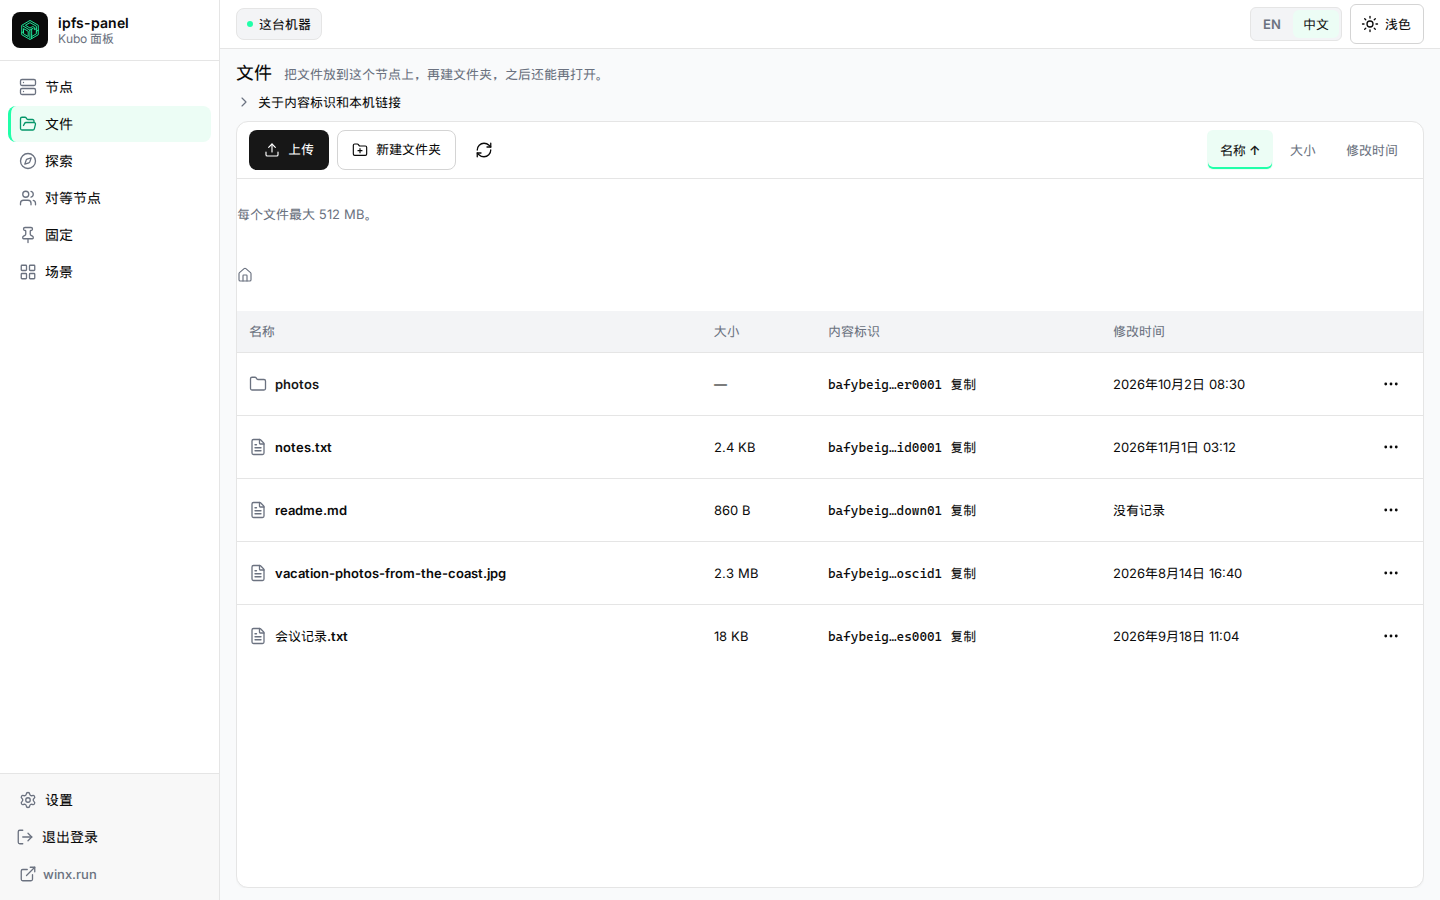
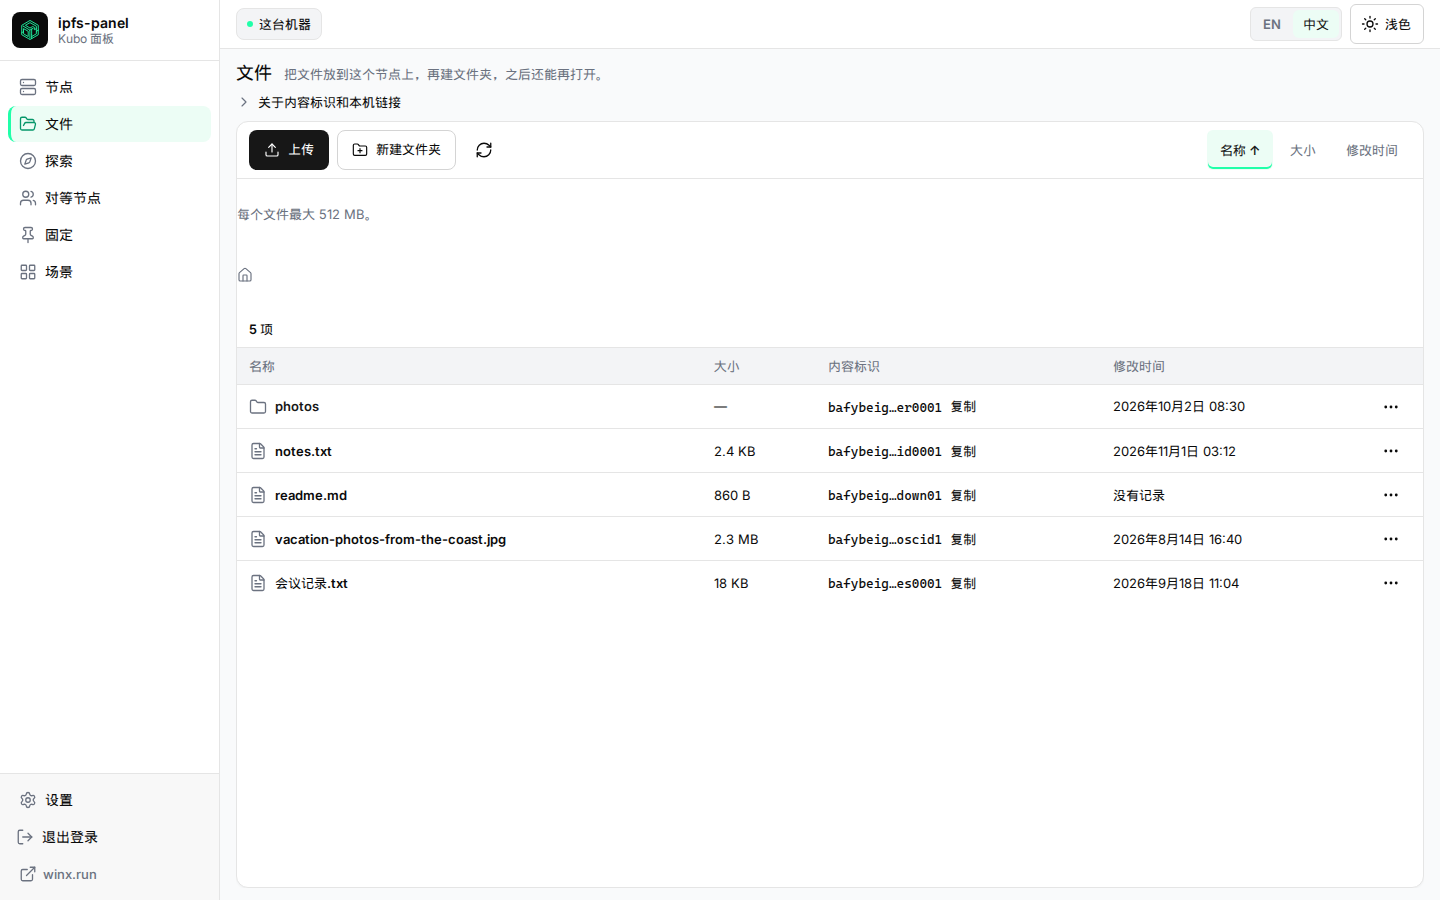
fix: finish the ops-panel density pass
Table cells, including the first column, use the toolbar's 12px inset and a 44px row. Node property hints no longer add a second line, and the pins and peers sections end after the last row. Peer ids ellipsize, with the copy control keeping the full id. Files and pins show a count above the list. The raw pin type code is no longer a second line under the label.

diff --git a/apps/web/src/styles/peers.css b/apps/web/src/styles/peers.css
@@ -75,8 +75,12 @@
 }
 
 .peers-summary {
-  margin: 0 0 4px;
+  margin: 0;
+  padding: 8px 12px;
+  border-bottom: 1px solid var(--border);
+  font-size: 13px;
   font-weight: 600;
+  line-height: 20px;
 }
 
 .peers-note,
@@ -102,7 +106,6 @@
   gap: 12px;
 }
 
-.peers-summary,
 .peers-note,
 .peers-empty,
 .peers-problem {
@@ -113,15 +116,29 @@
   width: 100%;
   margin-top: 0;
   border-collapse: collapse;
+  table-layout: fixed;
+}
+
+.peers-table th:nth-child(1) { width: 46%; }
+.peers-table th:nth-child(2) { width: 18%; }
+.peers-table th:nth-child(3) { width: 14%; }
+.peers-table th:nth-child(4) { width: 22%; }
+
+.peers-table th,
+.peers-table td {
+  height: 44px;
+  padding: 0 12px;
+  text-align: start;
+  vertical-align: middle;
+  white-space: nowrap;
 }
 
 .peers-table th {
-  padding: 6px 10px 6px 0;
+  height: 36px;
   background: var(--surface-sunken);
   color: var(--muted);
   font-size: var(--text-sm);
   font-weight: 600;
-  text-align: start;
 }
 
 .peers-table tbody tr:hover td {
@@ -129,32 +146,33 @@
 }
 
 .peers-table td {
-  padding: 11px 10px 11px 0;
   border-top: 1px solid var(--border);
-  vertical-align: top;
-  line-height: 1.45;
+  overflow: hidden;
+  text-overflow: ellipsis;
 }
 
 .peers-id {
   display: flex;
-  align-items: flex-start;
+  align-items: center;
   gap: 4px;
   min-width: 0;
 }
 
 .peers-id code {
   min-width: 0;
+  overflow: hidden;
   font-family: var(--font-mono);
-  font-size: var(--text-sm);
-  line-height: 1.45;
-  overflow-wrap: anywhere;
+  font-size: 13px;
+  line-height: 20px;
+  text-overflow: ellipsis;
+  white-space: nowrap;
 }
 
 .peers-id .ui-icon-btn {
   flex: none;
-  width: 36px;
-  height: 36px;
-  margin-top: -6px;
+  width: 32px;
+  height: 32px;
+  margin-top: 0;
 }
 
 .peers-cards {
@@ -167,7 +185,7 @@
 .peers-cards li {
   display: grid;
   gap: 10px;
-  padding: 14px 0;
+  padding: 12px;
   border-top: 1px solid var(--border);
 }
 

diff --git a/apps/web/src/styles/shell.css b/apps/web/src/styles/shell.css
@@ -395,6 +395,7 @@
   overflow: auto;
 }
 
+.page-node .work,
 .page-node .work.is-fit {
   flex: none;
 }
@@ -409,8 +410,7 @@
 }
 
 .node-split {
-  flex: 1;
-  min-height: 0;
+  flex: none;
   display: flex;
   flex-direction: column;
 }
@@ -418,7 +418,6 @@
 .node-split > .node-section {
   display: flex;
   flex-direction: column;
-  min-height: 0;
   min-width: 0;
 }
 
@@ -489,10 +488,17 @@
 }
 
 .node-scroll {
-  flex: 1;
-  min-height: 0;
-  overflow: auto;
+  overflow: visible;
 }
+
+.node-peers .node-table {
+  table-layout: fixed;
+}
+
+.node-peers .node-table th:nth-child(1) { width: 34%; }
+.node-peers .node-table th:nth-child(2) { width: 24%; }
+.node-peers .node-table th:nth-child(3) { width: 16%; }
+.node-peers .node-table th:nth-child(4) { width: 26%; }
 
 .node-table {
   width: 100%;
@@ -513,11 +519,14 @@
 
 .node-table td {
   height: 44px;
-  padding: 6px 12px;
+  padding: 0 12px;
   border-top: 1px solid var(--border);
   font-size: 14px;
   line-height: 22px;
   vertical-align: middle;
+  overflow: hidden;
+  text-overflow: ellipsis;
+  white-space: nowrap;
 }
 
 .node-table tbody tr:hover td {
@@ -525,8 +534,12 @@
 }
 
 .node-table code {
+  display: block;
+  overflow: hidden;
   font-family: var(--font-mono);
   font-size: 13px;
+  text-overflow: ellipsis;
+  white-space: nowrap;
 }
 
 .node-name {
@@ -577,7 +590,7 @@
   gap: 12px;
   align-items: center;
   min-height: 44px;
-  padding: 4px 12px;
+  padding: 0 12px;
   border-bottom: 1px solid var(--border);
 }
 

diff --git a/apps/web/src/views/NodeView.vue b/apps/web/src/views/NodeView.vue
@@ -264,7 +264,7 @@ async function copy(kind: string, value: string | null | undefined) {
                 </dd>
               </div>
               <div v-if="showPeer">
-                <dt>{{ t('nodePeerId') }}</dt>
+                <dt :title="t('peerHint')">{{ t('nodePeerId') }}<span class="sr-only">. {{ t('peerHint') }}</span></dt>
                 <dd>
                   <div class="fact">
                     <span v-if="peerShort === peerId" class="peer mono">{{ peerId }}</span>
@@ -283,17 +283,15 @@ async function copy(kind: string, value: string | null | undefined) {
                       </IconButton>
                     </Tooltip>
                   </div>
-                  <p class="peer-hint">{{ t('peerHint') }}</p>
                 </dd>
               </div>
               <div v-if="peers !== null">
-                <dt>{{ t('nodePeers') }}</dt>
+                <dt :title="t('nodePeersHint')">{{ t('nodePeers') }}<span class="sr-only">. {{ t('nodePeersHint') }}</span></dt>
                 <dd>
                   <RouterLink class="peers-count-link" to="/peers">
                     <span class="mono">{{ peers }}</span>
                     <span class="sr-only">{{ t('nodePeersOpen') }}</span>
                   </RouterLink>
-                  <p class="peer-hint">{{ t('nodePeersHint') }}</p>
                 </dd>
               </div>
               <div v-if="showTraffic">

diff --git a/apps/web/src/styles/pins.css b/apps/web/src/styles/pins.css
@@ -70,7 +70,7 @@
 
 .pins-table {
   width: 100%;
-  margin-top: 8px;
+  margin-top: 0;
   border-collapse: collapse;
 }
 
@@ -88,14 +88,21 @@
 
 .pins-table th,
 .pins-table td {
-  padding: 11px 12px;
+  height: 44px;
+  padding: 0 12px;
   border-bottom: 1px solid var(--border);
   text-align: start;
   vertical-align: middle;
-  overflow-wrap: anywhere;
+}
+
+.pins-table td {
+  overflow: hidden;
+  text-overflow: ellipsis;
+  white-space: nowrap;
 }
 
 .pins-table thead th {
+  height: 36px;
   background: var(--surface-sunken);
   color: var(--muted);
   font-size: var(--text-sm);
@@ -130,10 +137,7 @@
 }
 
 .pins-type-code {
-  display: block;
-  margin-top: 2px;
-  color: var(--muted);
-  font-weight: 400;
+  display: none;
 }
 
 .pins-text-btn {

diff --git a/apps/web/src/locales/zh.ts b/apps/web/src/locales/zh.ts
@@ -71,6 +71,7 @@ export const zh: MessageSchema = {
   filesSortAsc: '升序',
   filesSortDesc: '降序',
   filesName: '名称',
+  filesSummary: '{count} 项',
   filesSize: '大小',
   filesCid: '内容标识',
   filesModified: '修改时间',
@@ -268,6 +269,7 @@ export const zh: MessageSchema = {
   pinsTypeDirect: '只这一块',
   pinsSize: '大小',
   pinsUnnamed: '没有名称',
+  pinsSummary: '已固定 {count} 个',
   pinsEmptyTitle: '还没有固定任何内容',
   pinsEmptyBody: '粘贴一个内容标识，或从这台电脑添加一个文件。这个节点会把它留下来。',
   pinsNoMatchTitle: '没有匹配的',

diff --git a/apps/web/src/locales/en.ts b/apps/web/src/locales/en.ts
@@ -70,6 +70,7 @@ export const en = {
   filesSortAsc: 'ascending',
   filesSortDesc: 'descending',
   filesName: 'Name',
+  filesSummary: '{count} items',
   filesSize: 'Size',
   filesCid: 'Content ID',
   filesModified: 'Modified',
@@ -267,6 +268,7 @@ export const en = {
   pinsTypeDirect: 'Only this block',
   pinsSize: 'Size',
   pinsUnnamed: 'No name',
+  pinsSummary: '{count} pinned',
   pinsEmptyTitle: 'Nothing is pinned yet',
   pinsEmptyBody: 'Paste a content ID, or add a file from this computer. This node will keep it.',
   pinsNoMatchTitle: 'Nothing matches',

diff --git a/apps/web/src/styles/explore.css b/apps/web/src/styles/explore.css
@@ -165,20 +165,24 @@ button.explore-crumb {
   border-collapse: collapse;
 }
 
+.explore-table th,
+.explore-table td {
+  height: 44px;
+  padding: 0 12px;
+  text-align: start;
+  vertical-align: middle;
+}
+
 .explore-table th {
-  padding: 6px 10px 6px 0;
+  height: 36px;
   background: var(--surface-sunken);
   color: var(--muted);
   font-size: var(--text-sm);
   font-weight: 600;
-  text-align: left;
 }
 
 .explore-table td {
-  padding: 8px 12px 8px 0;
   border-top: 1px solid var(--border);
-  vertical-align: top;
-  line-height: 1.45;
 }
 
 .explore-name {

diff --git a/apps/web/src/views/PeersView.vue b/apps/web/src/views/PeersView.vue
@@ -263,7 +263,7 @@ onUnmounted(() => {
                   <tr v-for="peer in shown" :key="peer.peerId">
                     <td>
                       <div class="peers-id">
-                        <code>{{ peer.peerId }}</code>
+                        <code :title="peer.peerId">{{ peer.peerId }}</code>
                         <IconButton :label="t('peersCopyId')" @click="copyText(peer.peerId)">
                           <Copy :size="16" :stroke-width="1.75" aria-hidden="true" />
                         </IconButton>

diff --git a/apps/web/src/styles/files.css b/apps/web/src/styles/files.css
@@ -179,14 +179,21 @@
 
 .files-table th,
 .files-table td {
-  padding: 11px 12px;
+  height: 44px;
+  padding: 0 12px;
   border-bottom: 1px solid var(--border);
   text-align: start;
   vertical-align: middle;
-  overflow-wrap: anywhere;
+}
+
+.files-table td {
+  overflow: hidden;
+  text-overflow: ellipsis;
+  white-space: nowrap;
 }
 
 .files-table thead th {
+  height: 36px;
   background: var(--surface-sunken);
   color: var(--muted);
   font-size: var(--text-sm);

diff --git a/apps/web/src/styles/components.css b/apps/web/src/styles/components.css
@@ -511,13 +511,22 @@
   100% { background-position: -100% 0; }
 }
 
+.list-count {
+  margin: 0;
+  padding: 8px 12px;
+  border-bottom: 1px solid var(--border);
+  font-size: 13px;
+  font-weight: 600;
+  line-height: 20px;
+}
+
 .ui-empty {
   display: flex;
   flex-direction: column;
   align-items: flex-start;
   gap: 6px;
   max-width: 36rem;
-  padding: 4px 0 8px;
+  padding: 16px 12px 20px;
 }
 
 .ui-empty.is-center {

diff --git a/apps/web/src/views/FilesView.vue b/apps/web/src/views/FilesView.vue
@@ -549,6 +549,7 @@ onUnmounted(() => document.removeEventListener('pointerdown', onPointer))
           :description="t('filesEmptyBody')"
         />
         <MotionIn v-else>
+          <p class="list-count">{{ t('filesSummary', { count: sorted.length }) }}</p>
           <table class="files-table">
             <caption class="sr-only">{{ t('filesTitle') }}</caption>
             <thead>

diff --git a/apps/web/src/views/PinsView.vue b/apps/web/src/views/PinsView.vue
@@ -436,6 +436,7 @@ onUnmounted(() => {
         :description="t('pinsNoMatchBody')"
       />
       <MotionIn v-else class="work-scroll">
+        <p class="list-count">{{ t('pinsSummary', { count: shown.length }) }}</p>
         <table class="pins-table">
           <caption class="sr-only">{{ t('pinsTitle') }}</caption>
           <thead>
